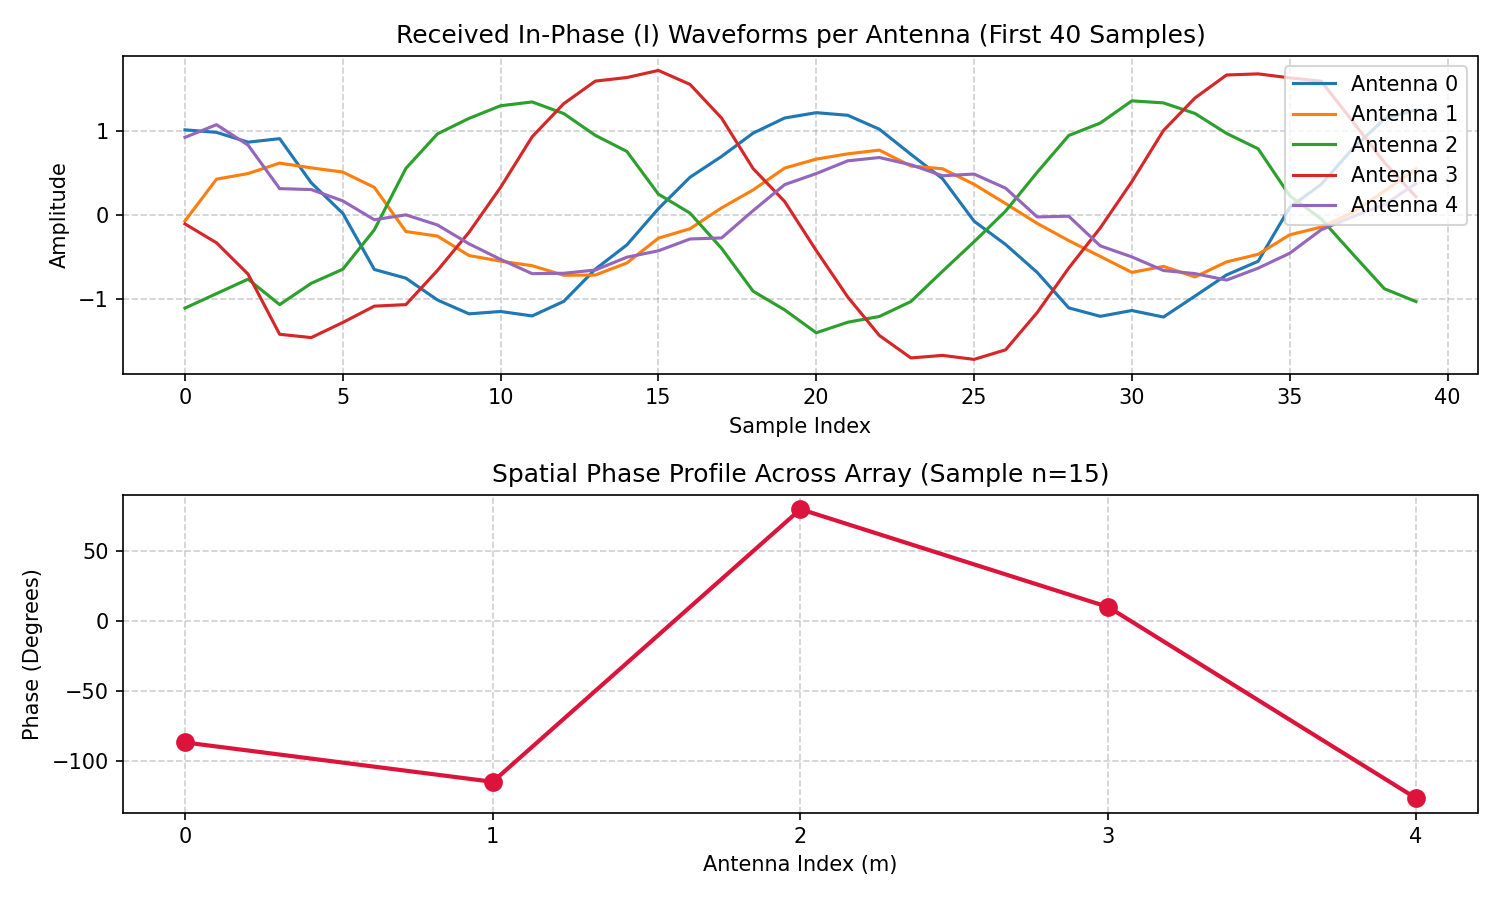
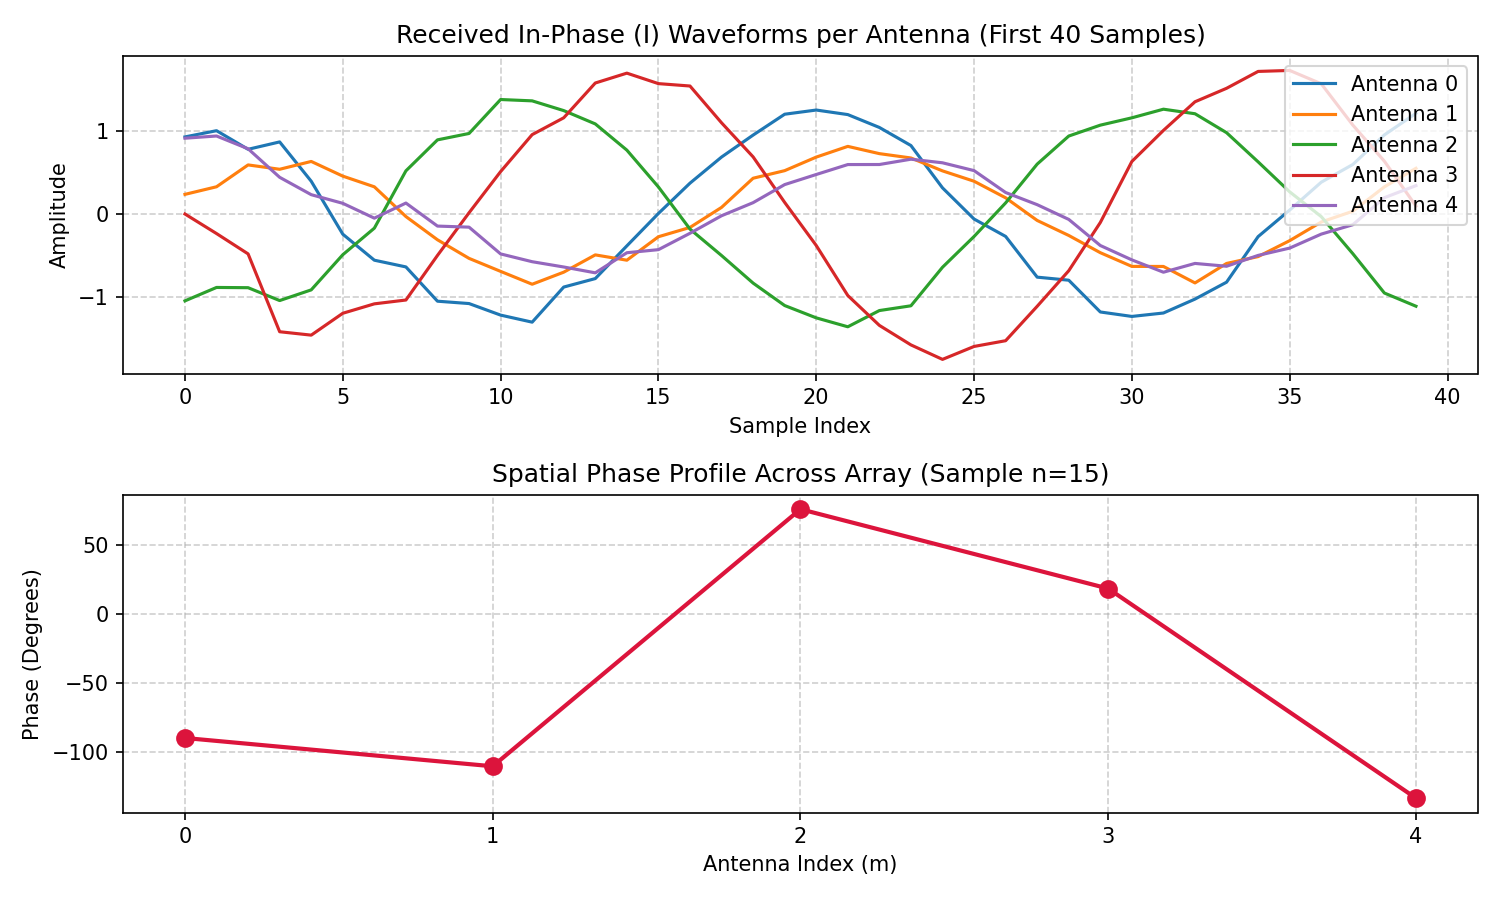
Add Bartlett and MUSIC DOA estimators

diff --git a/radiosim/channel/doa.py b/radiosim/channel/doa.py
@@ -1,0 +1,130 @@
+"""Direction-of-arrival estimators for spatial IQ snapshots.
+
+The functions in this module operate on an IQ matrix with shape ``(M, N)``:
+``M`` antenna elements and ``N`` simultaneous time samples.
+"""
+
+from typing import Tuple
+
+import numpy as np
+
+from .spatial_channel import UniformLinearArray
+
+
+def _validate_iq(iq: np.ndarray) -> np.ndarray:
+	"""Return IQ data as a non-empty two-dimensional complex array."""
+	x = np.asarray(iq, dtype=np.complex128)
+	if x.ndim != 2:
+		raise ValueError("iq must have shape (num_antennas, num_samples)")
+	if 0 in x.shape:
+		raise ValueError("iq must contain at least one antenna and one sample")
+	return x
+
+
+def _scan_angles(angles: np.ndarray) -> np.ndarray:
+	grid = np.asarray(angles, dtype=float)
+	if grid.ndim != 1 or grid.size == 0:
+		raise ValueError("angles must be a non-empty one-dimensional array")
+	return grid
+
+
+def _steering_matrix(array: UniformLinearArray, angles: np.ndarray) -> np.ndarray:
+	return np.column_stack([array.steering_vector(angle) for angle in angles])
+
+
+def sample_covariance(iq: np.ndarray) -> np.ndarray:
+	"""Estimate the spatial covariance matrix ``R = X X^H / N``."""
+	x = _validate_iq(iq)
+	return (x @ x.conj().T) / x.shape[1]
+
+
+def bartlett_spectrum(
+	iq: np.ndarray,
+	array: UniformLinearArray,
+	angles: np.ndarray,
+	normalize: bool = True,
+) -> Tuple[np.ndarray, np.ndarray]:
+	"""Compute the conventional Bartlett spatial spectrum."""
+	x = _validate_iq(iq)
+	grid = _scan_angles(angles)
+	if x.shape[0] != array.num_elements:
+		raise ValueError("iq antenna count must match array.num_elements")
+
+	rxx = sample_covariance(x)
+	steering = _steering_matrix(array, grid)
+	power = np.real(np.sum(steering.conj() * (rxx @ steering), axis=0))
+	power = np.maximum(power, 0.0)
+	if normalize and np.max(power) > 0:
+		power = power / np.max(power)
+	return grid, power
+
+
+def music_spectrum(
+	iq: np.ndarray,
+	array: UniformLinearArray,
+	angles: np.ndarray,
+	num_sources: int,
+	normalize: bool = True,
+) -> Tuple[np.ndarray, np.ndarray]:
+	"""Compute the MUSIC pseudospectrum.
+
+	``num_sources`` is the expected number of independent signal sources and
+	must be smaller than the number of antenna elements.
+	"""
+	x = _validate_iq(iq)
+	grid = _scan_angles(angles)
+	if x.shape[0] != array.num_elements:
+		raise ValueError("iq antenna count must match array.num_elements")
+	if not 0 < int(num_sources) < array.num_elements:
+		raise ValueError("num_sources must be between 1 and num_antennas - 1")
+
+	rxx = sample_covariance(x)
+	_, eigenvectors = np.linalg.eigh(rxx)
+	noise_subspace = eigenvectors[:, :array.num_elements - int(num_sources)]
+	steering = _steering_matrix(array, grid)
+	projection = noise_subspace.conj().T @ steering
+	denominator = np.sum(np.abs(projection) ** 2, axis=0)
+	spectrum = 1.0 / np.maximum(denominator, np.finfo(float).tiny)
+	if normalize and np.max(spectrum) > 0:
+		spectrum = spectrum / np.max(spectrum)
+	return grid, spectrum
+
+
+def estimate_peaks(
+	angles: np.ndarray,
+	spectrum: np.ndarray,
+	num_peaks: int = 1,
+	min_separation_deg: float = 1.0,
+) -> np.ndarray:
+	"""Return the strongest separated local maxima in ascending angle order."""
+	grid = _scan_angles(angles)
+	values = np.asarray(spectrum, dtype=float)
+	if values.shape != grid.shape:
+		raise ValueError("angles and spectrum must have the same shape")
+	if num_peaks < 1 or min_separation_deg < 0:
+		raise ValueError("num_peaks must be positive and separation non-negative")
+
+	if values.size == 1:
+		candidates = np.array([0])
+	else:
+		local_max = np.ones(values.size, dtype=bool)
+		local_max[1:-1] = (values[1:-1] >= values[:-2]) & (values[1:-1] >= values[2:])
+		candidates = np.flatnonzero(local_max)
+	if candidates.size == 0:
+		candidates = np.array([int(np.argmax(values))])
+
+	selected = []
+	for index in candidates[np.argsort(values[candidates])[::-1]]:
+		if all(abs(grid[index] - grid[chosen]) >= min_separation_deg for chosen in selected):
+			selected.append(int(index))
+			if len(selected) == num_peaks:
+				break
+	return np.sort(grid[selected])
+
+
+__all__ = [
+	"sample_covariance",
+	"bartlett_spectrum",
+	"music_spectrum",
+	"estimate_peaks",
+]

diff --git a/radiosim/channel/spatial_channel.py b/radiosim/channel/spatial_channel.py
@@ -68,6 +68,77 @@ class UniformLinearArray:
 		return np.exp(1j * phase)
 
 
+class UniformCircularArray:
+	"""
+	Uniform Circular Array (UCA) antenna model.
+
+	Attributes:
+		num_elements (int): Number of antenna elements (M).
+		radius (float): Radius of the circular array in meters (r).
+		carrier_frequency (float): Carrier frequency in Hz (fc).
+		speed_of_light (float): Propagation speed of light in m/s (c).
+		orientation (float): Array rotation offset in radians (default 0).
+	"""
+
+	def __init__(
+		self,
+		num_elements: int,
+		radius: float,
+		carrier_frequency: float,
+		speed_of_light: float = 299792458.0,
+		orientation: float = 0.0,
+	):
+		if num_elements < 1:
+			raise ValueError("num_elements must be at least 1")
+		if radius <= 0:
+			raise ValueError("radius must be positive")
+		if carrier_frequency <= 0:
+			raise ValueError("carrier_frequency must be positive")
+
+		self.num_elements = int(num_elements)
+		self.radius = float(radius)
+		self.carrier_frequency = float(carrier_frequency)
+		self.speed_of_light = float(speed_of_light)
+		# orientation offset (radians) to rotate element positions
+		self.orientation = float(orientation)
+
+	@property
+	def wavelength(self) -> float:
+		"""Signal wavelength in meters (lambda = c / fc)."""
+		return self.speed_of_light / self.carrier_frequency
+
+	@property
+	def element_positions(self) -> np.ndarray:
+		"""Return element (x,y) positions for uniformly spaced elements on the circle.
+
+		Shape: (num_elements, 2)
+		"""
+		angles = np.arange(self.num_elements, dtype=np.float64) * (2.0 * np.pi / self.num_elements) + self.orientation
+		x = self.radius * np.cos(angles)
+		y = self.radius * np.sin(angles)
+		return np.vstack((x, y)).T
+
+	def steering_vector(self, angle: float, is_degrees: bool = True) -> np.ndarray:
+		"""
+		Calculate the steering vector for a far-field plane wave impinging from azimuth `angle`.
+
+		We compute phase = -2pi / lambda * (x * cos(theta) + y * sin(theta)).
+
+		Args:
+			angle: Azimuth of arrival (radians or degrees depending on `is_degrees`).
+			is_degrees: If True, `angle` is in degrees.
+
+		Returns:
+			Complex array of shape (num_elements,).
+		"""
+		theta = np.radians(angle) if is_degrees else float(angle)
+		pos = self.element_positions  # (M,2)
+		kx = np.cos(theta)
+		ky = np.sin(theta)
+		phase = -2.0 * np.pi * (pos[:, 0] * kx + pos[:, 1] * ky) / self.wavelength
+		return np.exp(1j * phase)
+
+
 class SignalSource:
 	"""
 	Represents an RF signal source emitting a complex baseband waveform.

diff --git a/radiosim/tests/test_doa.py b/radiosim/tests/test_doa.py
@@ -1,0 +1,63 @@
+import unittest
+
+import numpy as np
+
+from radiosim.channel import (
+	SignalSource,
+	SpatialMultipathChannel,
+	UniformLinearArray,
+	bartlett_spectrum,
+	estimate_peaks,
+	music_spectrum,
+	sample_covariance,
+)
+
+
+class TestDOA(unittest.TestCase):
+	def setUp(self):
+		self.fc = 1e9
+		self.c = 3e8
+		self.array = UniformLinearArray(
+			num_elements=8,
+			element_spacing=self.c / self.fc / 2,
+			carrier_frequency=self.fc,
+			speed_of_light=self.c,
+		)
+		self.angles = np.linspace(-90.0, 90.0, 1801)
+
+	def test_covariance_is_hermitian(self):
+		rng = np.random.default_rng(1)
+		x = rng.normal(size=(8, 128)) + 1j * rng.normal(size=(8, 128))
+		rxx = sample_covariance(x)
+		self.assertEqual(rxx.shape, (8, 8))
+		np.testing.assert_allclose(rxx, rxx.conj().T)
+
+	def test_bartlett_finds_single_source(self):
+		rng = np.random.default_rng(2)
+		waveform = rng.normal(size=2048) + 1j * rng.normal(size=2048)
+		source = SignalSource(waveform, angle_of_arrival=25.0)
+		x = SpatialMultipathChannel(self.array, noise_power=0.01).simulate(source)
+		angles, spectrum = bartlett_spectrum(x, self.array, self.angles)
+		estimated = angles[np.argmax(spectrum)]
+		self.assertAlmostEqual(estimated, 25.0, delta=0.2)
+
+	def test_music_finds_two_sources(self):
+		rng = np.random.default_rng(3)
+		num_samples = 4096
+		sources = [
+			SignalSource(rng.normal(size=num_samples) + 1j * rng.normal(size=num_samples), -20.0),
+			SignalSource(rng.normal(size=num_samples) + 1j * rng.normal(size=num_samples), 35.0),
+		]
+		x = SpatialMultipathChannel(self.array, noise_power=0.02).simulate(sources)
+		angles, spectrum = music_spectrum(x, self.array, self.angles, num_sources=2)
+		estimated = estimate_peaks(angles, spectrum, num_peaks=2, min_separation_deg=5.0)
+		np.testing.assert_allclose(estimated, [-20.0, 35.0], atol=0.2)
+
+	def test_invalid_source_count_is_rejected(self):
+		x = np.ones((8, 32), dtype=np.complex128)
+		with self.assertRaises(ValueError):
+			music_spectrum(x, self.array, self.angles, num_sources=8)
+
+
+if __name__ == "__main__":
+	unittest.main()

diff --git a/scripts/spatial_doa_example.py b/scripts/spatial_doa_example.py
@@ -23,6 +23,7 @@ from radiosim.channel.spatial_channel import (
 	PropagationPath,
 	SpatialMultipathChannel
 )
+from radiosim.channel.doa import music_spectrum, estimate_peaks
 
 
 
@@ -110,7 +111,20 @@ def main():
 	print(f"    - Shape:             {iq_matrix.shape} (Antennas x Samples)")
 	print(f"    - Data Type:         {iq_matrix.dtype}")
 
-	# 5. Analyze and Print Per-Antenna Phase Progression (Sample n = 15)
+	# 5. Run MUSIC on a clean single-path snapshot for a deterministic DOA demo.
+	doa_iq = channel.simulate(sources=source)
+	scan_angles = np.linspace(-90.0, 90.0, 1801)
+	scan_angles, music_power = music_spectrum(
+		doa_iq, array, scan_angles, num_sources=1
+	)
+	estimated_angles = estimate_peaks(
+		scan_angles, music_power, num_peaks=1
+	)
+	print(f"\n[5] MUSIC DOA estimate:")
+	print(f"    - True angle:       {source.aoa_deg:.1f} deg")
+	print(f"    - Estimated angle:  {estimated_angles[0]:.1f} deg")
+
+	# 6. Analyze and Print Per-Antenna Phase Progression (Sample n = 15)
 	sample_idx = 15
 	print(f"\n[5] Per-Antenna Spatial IQ Response at Sample n={sample_idx}:")
 	print(f"    {'Antenna':<8} {'Position (m)':<15} {'Complex Value (I + jQ)':<30} {'Magnitude':<12} {'Phase (deg)':<12}")
@@ -131,7 +145,7 @@ def main():
 		diff = (phases[m] - phases[0] + 180) % 360 - 180
 		print(f"    Antenna {m}: Delta Phase = {diff:+7.2f} deg")
 
-	# 6. Optional Matplotlib Visualization
+	# 7. Optional Matplotlib Visualization
 	try:
 		import matplotlib.pyplot as plt
 		

diff --git a/radiosim/channel/__init__.py b/radiosim/channel/__init__.py
@@ -1,15 +1,27 @@
 from .channel import Channel
 from .spatial_channel import (
 	UniformLinearArray,
+	UniformCircularArray,
 	SignalSource,
 	PropagationPath,
 	SpatialMultipathChannel
+)
+from .doa import (
+	sample_covariance,
+	bartlett_spectrum,
+	music_spectrum,
+	estimate_peaks
 )
 
 __all__ = [
 	"Channel",
 	"UniformLinearArray",
+	"UniformCircularArray",
 	"SignalSource",
 	"PropagationPath",
-	"SpatialMultipathChannel"
+	"SpatialMultipathChannel",
+	"sample_covariance",
+	"bartlett_spectrum",
+	"music_spectrum",
+	"estimate_peaks"
 ]

diff --git a/radiosim/__init__.py b/radiosim/__init__.py
@@ -2,9 +2,14 @@ from .node import *
 from .channel import (
 	Channel as PythonChannel,
 	UniformLinearArray,
+	UniformCircularArray,
 	SignalSource,
 	PropagationPath,
-	SpatialMultipathChannel
+	SpatialMultipathChannel,
+	sample_covariance,
+	bartlett_spectrum,
+	music_spectrum,
+	estimate_peaks
 )
 
 try:
